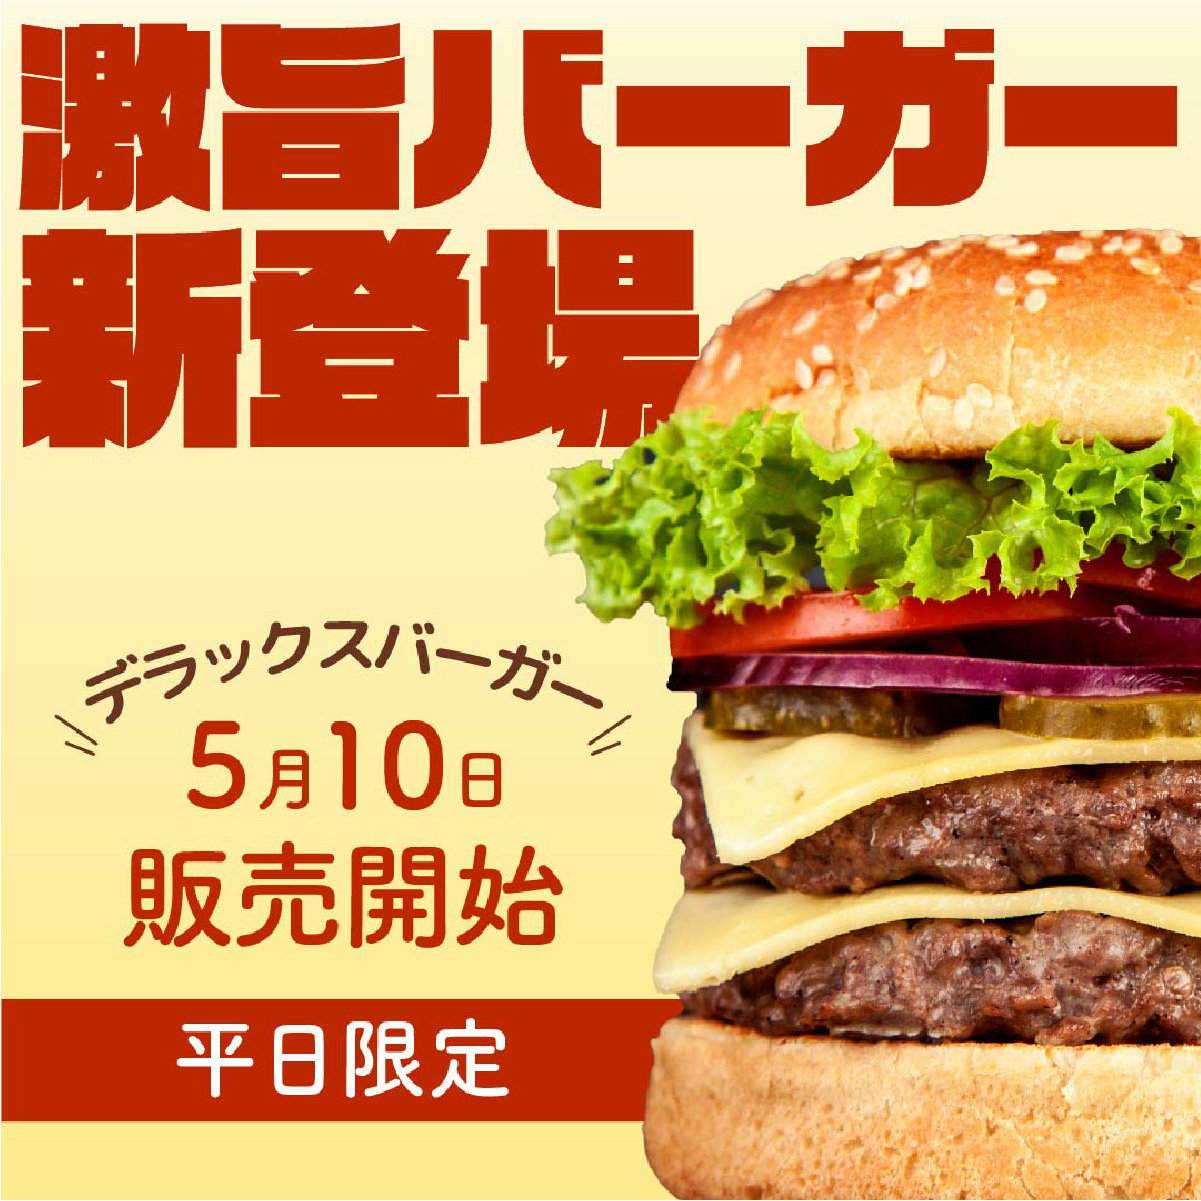
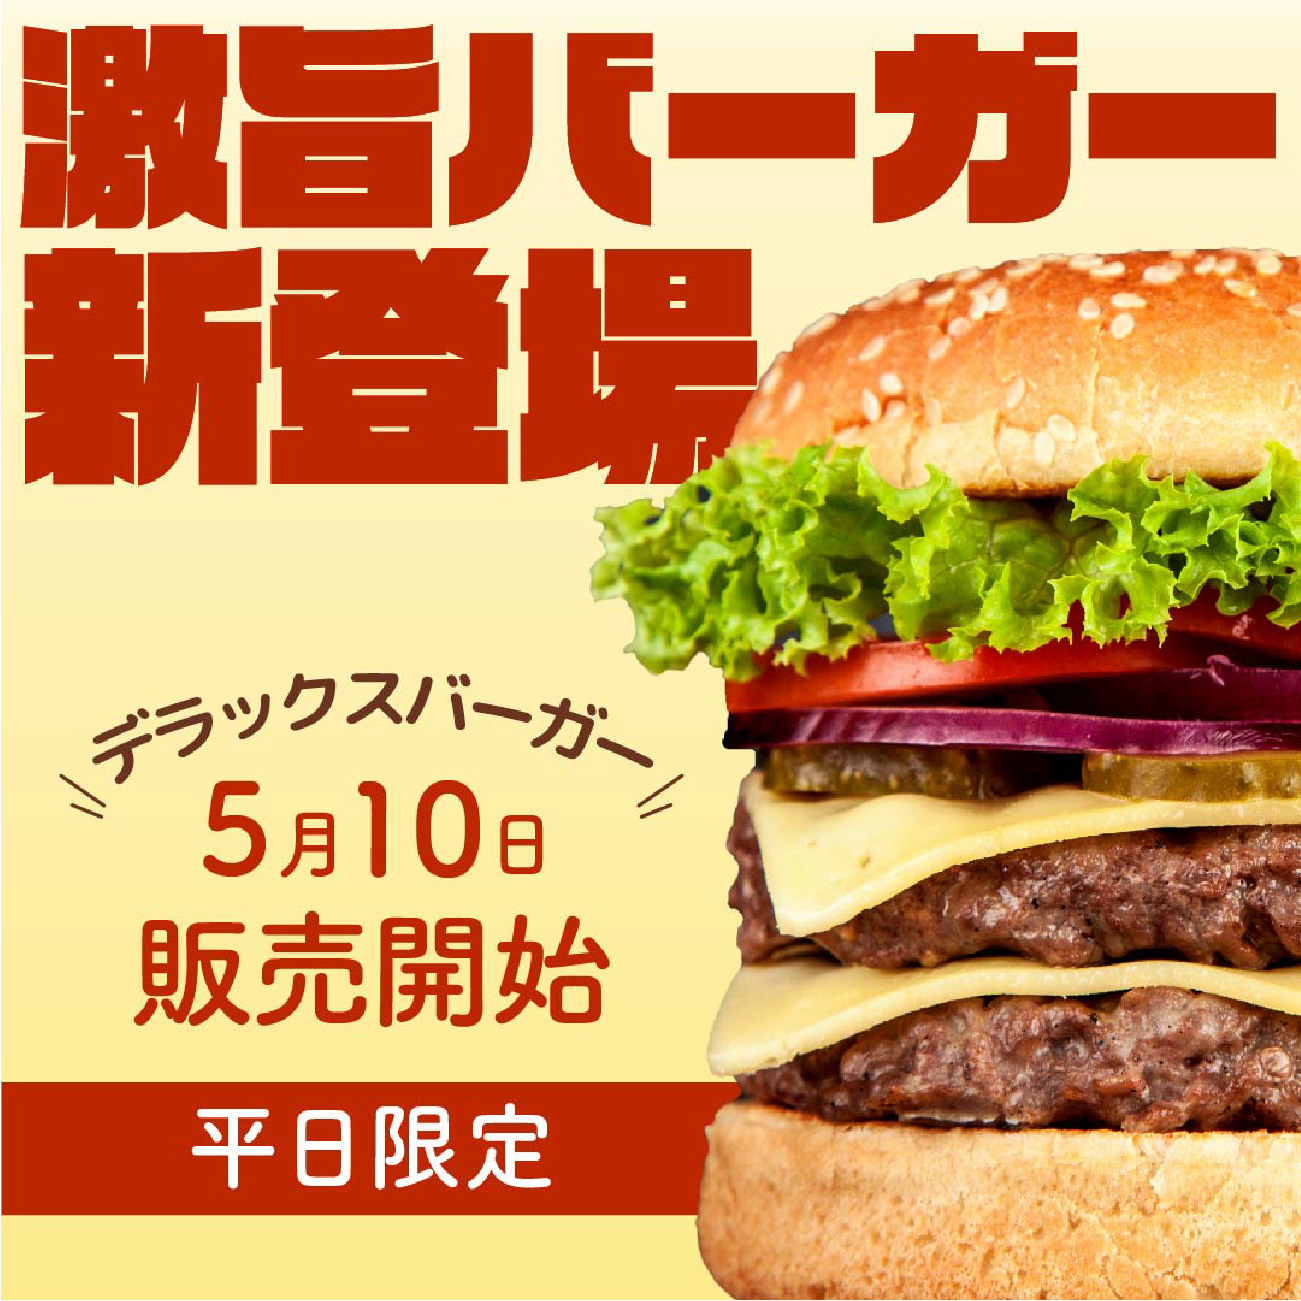
240314-2

diff --git a/index.html b/index.html
@@ -136,7 +136,7 @@
             <div class="works_wrap_02">
                 <h3 class="color_02">ワークショップ</h3>
                 <p class="works_feature_01">資格</p>
-                <p class="works_feature_02">美術科教員免許・学芸員</p>
+                <p class="works_feature_02">美術科教員免許（中高）・学芸員</p>
             </div>
         </div>
         <!-- スライダー -->
@@ -150,10 +150,10 @@
                 </a>
             </div>
             <div class="works_list_img" ontouchstart="">
-                <a href="">
+                <a href="./works/hamburger_banner_design.html">
                     <span class="works_img_hover">
                         <img src="images/work_bunner_01@2x-80.jpg" alt="ハンバーガー新商品のバナー広告">
-                        <span class="works_hover_cap">coming soon..</span>
+                        <span class="works_hover_cap">新商品「激旨バーガー」<br>バナーデザイン</span>
                     </span>
                 </a>
             </div>
